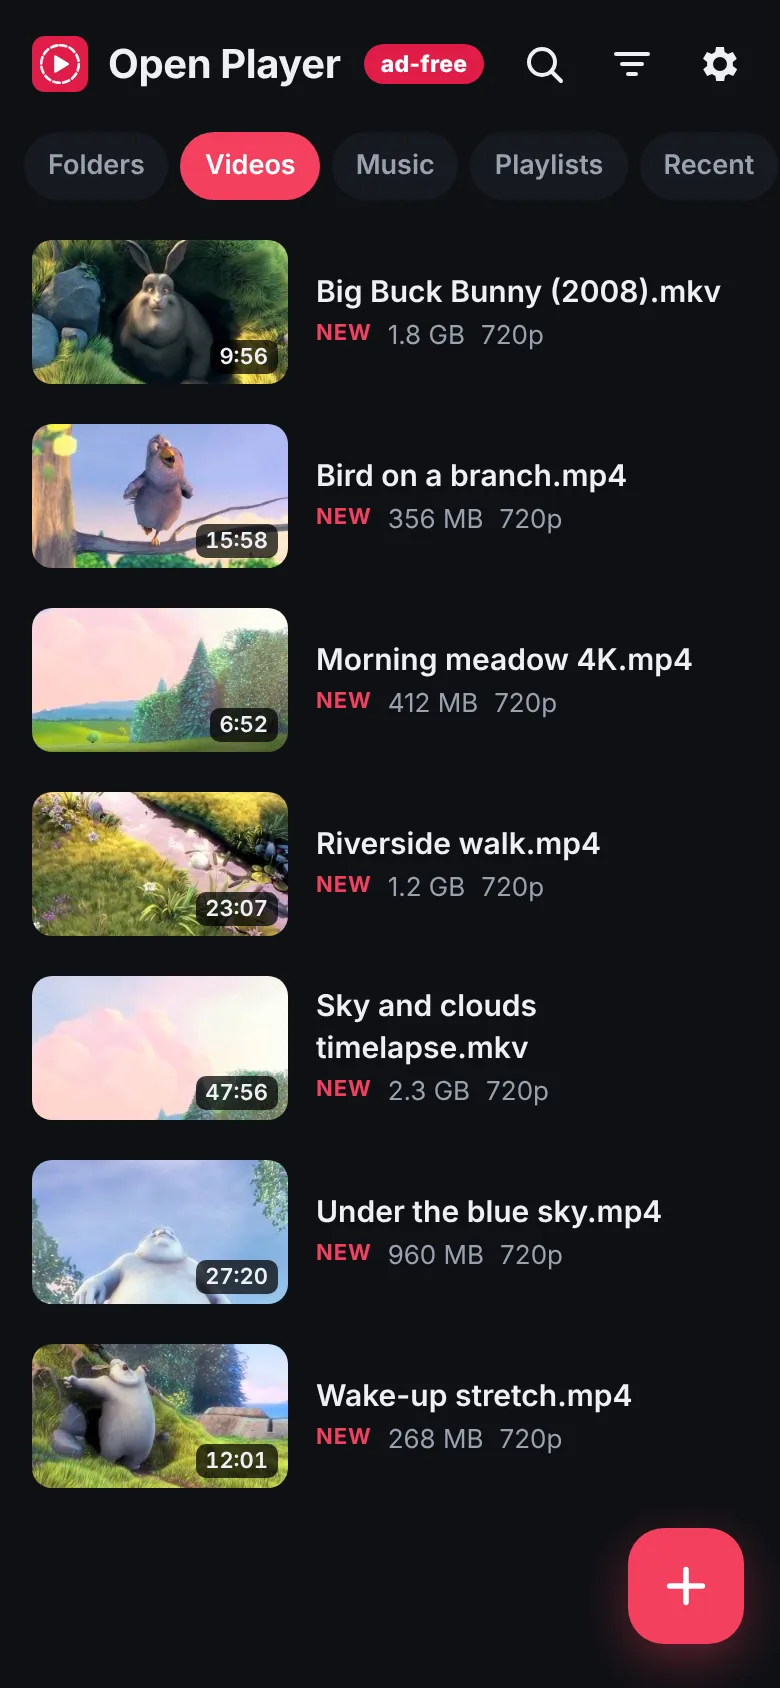
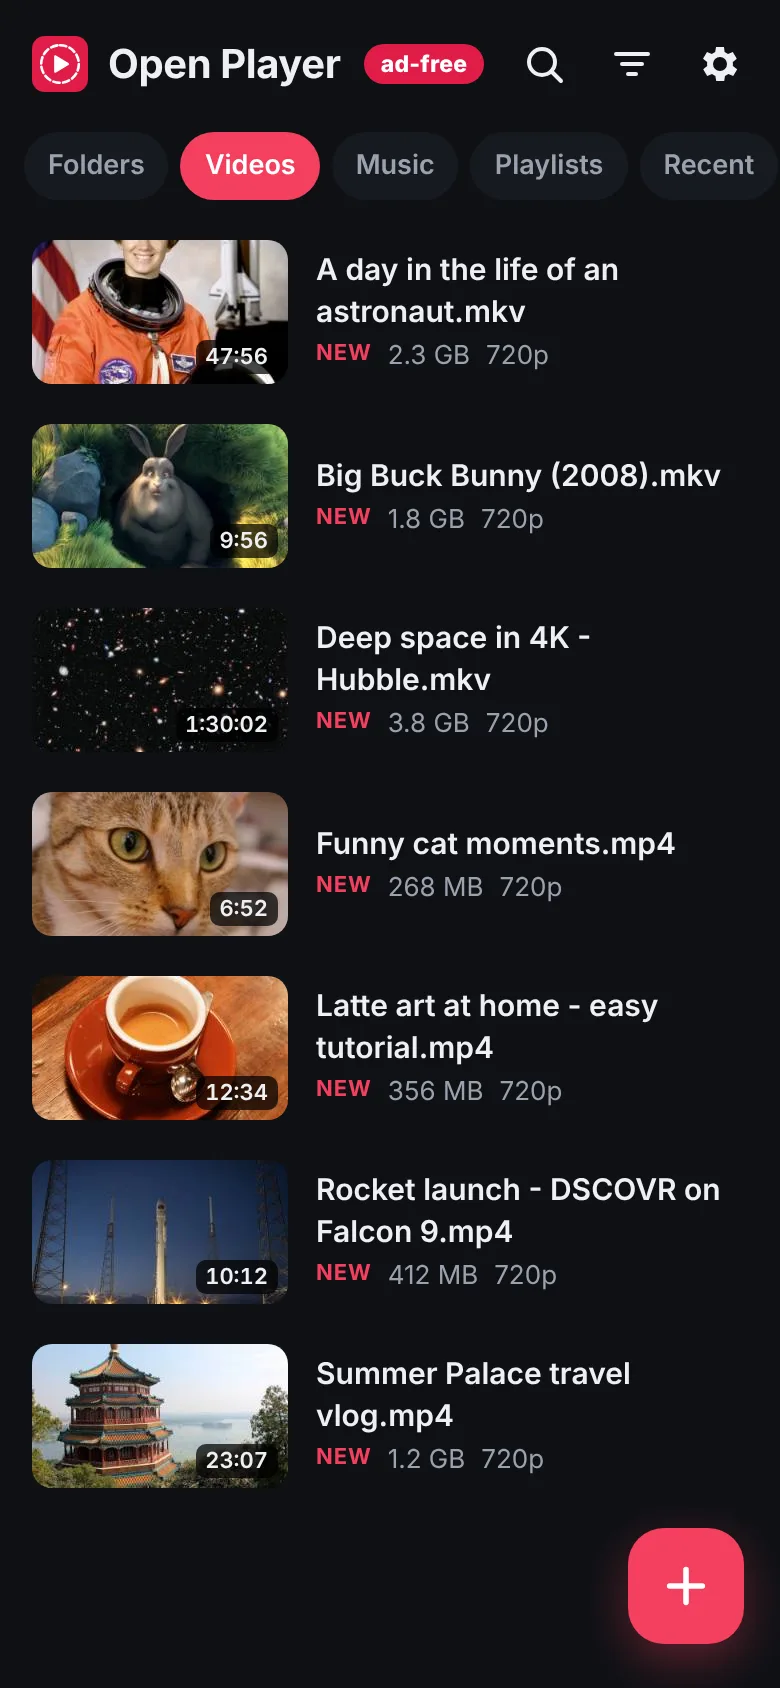
Website: screenshots with real photos instead of the cartoon
Sample library made from freely licensed photos (NASA, SpaceX, CC0 and
CC BY images), with credits in the footer.

Claude-Session: https://claude.ai/code/session_01FbdzXouZD95XV4NmZsatfn

diff --git a/index.html b/index.html
@@ -96,6 +96,7 @@
     .shot-phone img { display: block; width: 100%; height: auto; border-radius: 22px; }
     .shots figcaption { position: absolute; right: 0; bottom: 0; font-size: 12.5px; color: var(--soft); text-align: right; max-width: 62%; }
     .shots figcaption a { color: inherit; }
+    .credits { font-size: 12.5px; }
     @media (max-width: 920px) {
       .top-grid { grid-template-columns: 1fr; gap: 36px; }
       .shots { max-width: 620px; }
@@ -436,7 +437,7 @@
       <figure class="shots" aria-label="Screenshots of Open Player">
         <div class="shot-wide"><img src="img/shot-player.webp" width="1280" height="720" alt="Open Player playing a video, with the seek bar, skip and subtitle buttons"></div>
         <div class="shot-phone"><img src="img/shot-library.webp" width="780" height="1688" alt="Open Player’s video library on a phone"></div>
-        <figcaption>Real screenshots of the app. Video: <a href="https://peach.blender.org" rel="noopener">Big Buck Bunny</a> © Blender Foundation, CC BY 3.0.</figcaption>
+        <figcaption>Real screenshots of the app, with sample videos. <a href="#credits">Image credits</a></figcaption>
       </figure>
     </div>
   </header>
@@ -771,7 +772,8 @@
   <footer>
     <div class="wrap">
       <span>Open Player is free software under the <a href="https://github.com/adhil-bit/open-palyer/blob/main/LICENSE">GPL-3.0</a>. Source on <a href="https://github.com/adhil-bit/open-palyer">GitHub</a>.</span>
-      <span>VLC, MX Player and Next Player are trademarks of their owners. Open Player isn’t affiliated with them.</span>
+      <span>VLC, MX Player and Next Player are trademarks of their owners.</span>
+      <span id="credits" class="credits">Screenshot images: rocket launch by SpaceX and astronaut by NASA (public domain); coffee by Rachel Michetti and cat by Stefan van der Walt (CC0); Summer Palace by Daniel Buechele (CC BY 2.0); Hubble Deep Field by NASA (public domain); <a href="https://peach.blender.org">Big Buck Bunny</a> © Blender Foundation (CC BY 3.0). Open Player isn’t affiliated with them.</span>
     </div>
   </footer>
 
